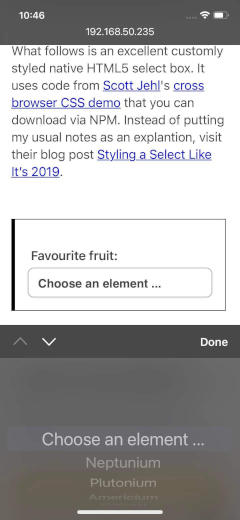
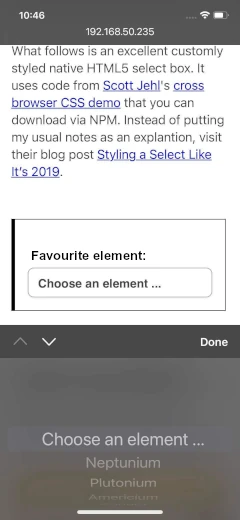
Update screenshots and content of listbox to correct error in elements example.

diff --git a/css/select-css.css b/css/select-css.css
@@ -64,6 +64,9 @@
   color: #222;
   outline: transparent 1px solid;
 }
+.enable__is-dark-mode .select-css:focus {
+  color: white;
+}
 .select-css:focus:not(:focus-visible) {
   border-color: inherit;
   box-shadow: none;
@@ -77,6 +80,9 @@
   box-shadow: 0 0 0 3px -moz-mac-focusring;
   color: #222;
   outline: transparent 1px solid;
+}
+.enable__is-dark-mode .select-css:focus-visible {
+  color: white;
 }
 .select-css option {
   font-weight: normal;

diff --git a/less/select-css.less b/less/select-css.less
@@ -58,6 +58,10 @@
         box-shadow: 0 0 0 3px -moz-mac-focusring;
         color: #222; 
         outline: transparent 1px solid;
+
+        .enable__is-dark-mode & {
+            color: white;
+        }
     }, {
         border-color: inherit;
         box-shadow: none;

diff --git a/content/body/listbox.php b/content/body/listbox.php
@@ -83,7 +83,7 @@
 
 <div id="html5-example" class="enable-example">
   <label class="select-css__label" for="fave-fruit">
-    Favourite fruit:
+    Favourite element:
   </label>
   <select id="fave-fruit" class="select-css">
     <option value="">Choose one…</option>
